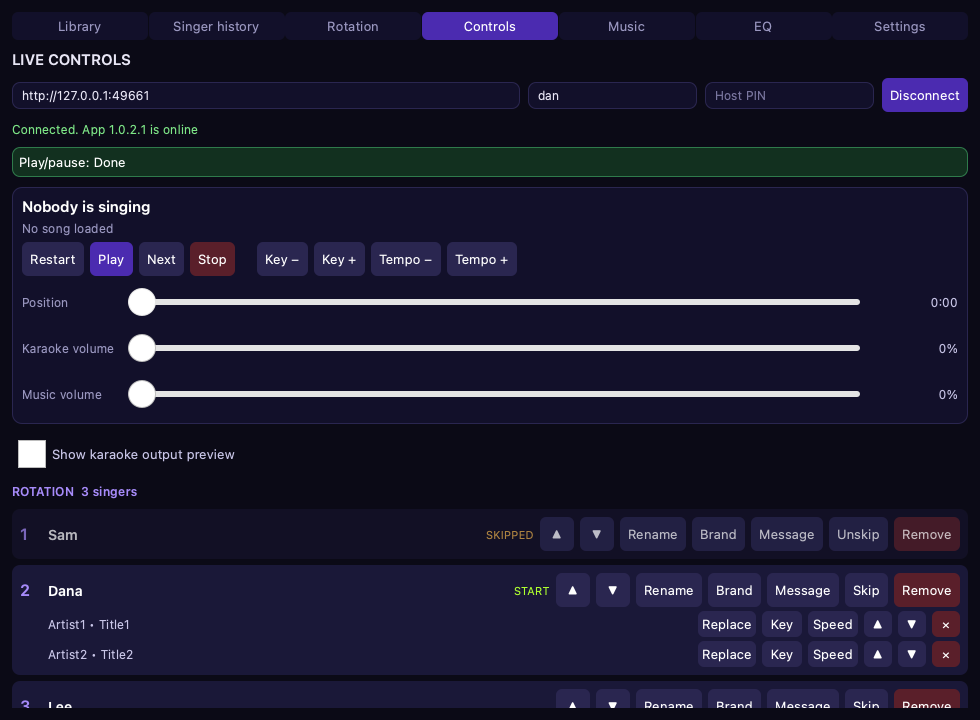
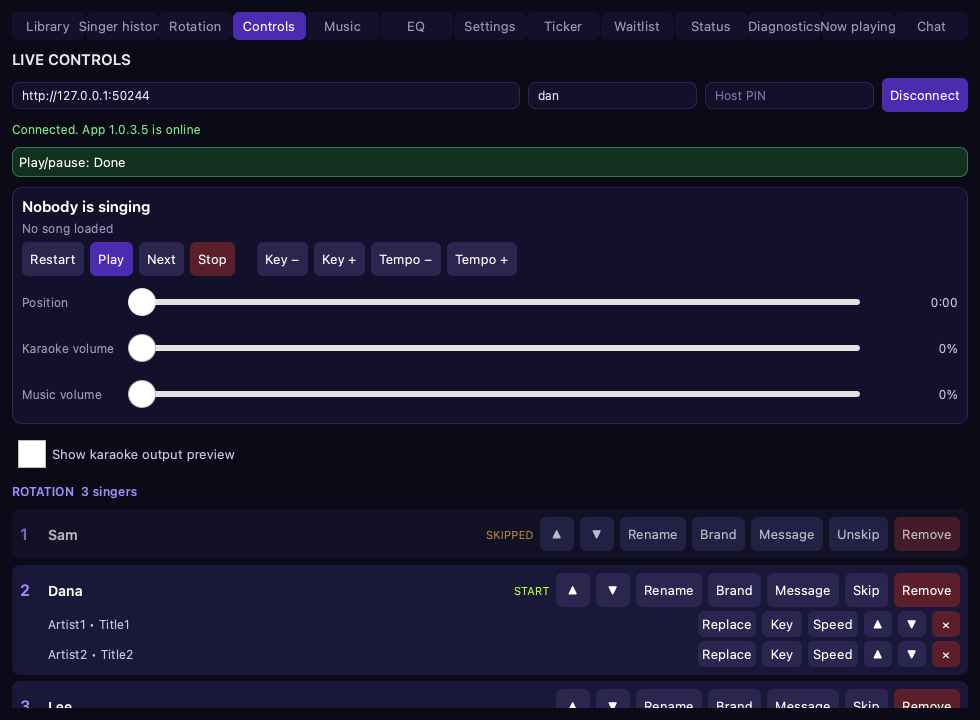
Keep the Rust service model and parity tools in step with the Chromium download and 720p capture

diff --git a/test_karafun_service_rs.py b/test_karafun_service_rs.py
@@ -37,19 +37,6 @@ class ServiceParity(unittest.TestCase):
         self.assertEqual(r.returncode, 0, r.stdout[-3000:] + r.stderr[-1000:])
         self.assertIn("IDENTICAL", r.stdout)
 
-    def test_browser_parity_small_corpus(self):
-        os.environ.setdefault("SINGWS_HOME", tempfile.mkdtemp(prefix="kf_svc_test_home_"))
-        sys.path.insert(0, str(ROOT / "tools"))
-        import karafun_browser_parity as p
-        try:
-            p.find_cli()
-        except FileNotFoundError:
-            self.skipTest("singws-karafun-svc not built")
-        r = subprocess.run([sys.executable, str(ROOT / "tools" / "karafun_browser_parity.py"), "--cases", "300", "--seed", "3"],
-                           capture_output=True, text=True, env={**os.environ, "SINGWS_HOME": os.environ["SINGWS_HOME"]}, timeout=300)
-        self.assertEqual(r.returncode, 0, r.stdout[-3000:] + r.stderr[-1000:])
-        self.assertIn("IDENTICAL", r.stdout)
-
     def test_matching_parity_against_the_page_script_in_node(self):
         import shutil
         if shutil.which("node") is None:

diff --git a/rust/crates/singws-karafun-svc/src/lib.rs b/rust/crates/singws-karafun-svc/src/lib.rs
@@ -135,7 +135,7 @@ impl Machine {
                     return Err("negative progress".into());
                 }
                 let percent = if total != 0 { format!(" ({}%)", done.saturating_mul(100) / total) } else { String::new() };
-                self.put(&mut out, "preparing", &format!("Downloading the browser{percent}"));
+                self.put(&mut out, "preparing", &format!("Downloading Chromium{percent}"));
             }
             Event::BrowserFound => self.put(&mut out, "starting", "Starting KaraFun's player"),
             Event::WebMade => self.has_web = true,

diff --git a/tools/karafun_service_parity.py b/tools/karafun_service_parity.py
@@ -93,7 +93,7 @@ def python_trace(sc: dict) -> dict:
             raise {"Err": Err, "Err2": Err2, "ValueError": ValueError}[s["kind"]]("secret-ish text must not be logged")
         return s.get("empty")  # None or () (both falsy)
 
-    def find(progress):
+    def find(progress, **_kw):
         for d, t in sc.get("progress", []):
             progress(d, t)
         if sc.get("find_fail"):

diff --git a/rust/crates/singws-karafun-svc/src/frames.rs b/rust/crates/singws-karafun-svc/src/frames.rs
@@ -4,7 +4,7 @@
 use serde_json::{json, Value};
 
 pub const FRAME_INTERVAL_MS: i64 = 16;
-pub const SCREENCAST: (i64, i64, i64) = (1920, 1080, 92);
+pub const SCREENCAST: (i64, i64, i64) = (1280, 720, 85);
 
 #[derive(Debug, Default, Clone)]
 pub struct Frames {
